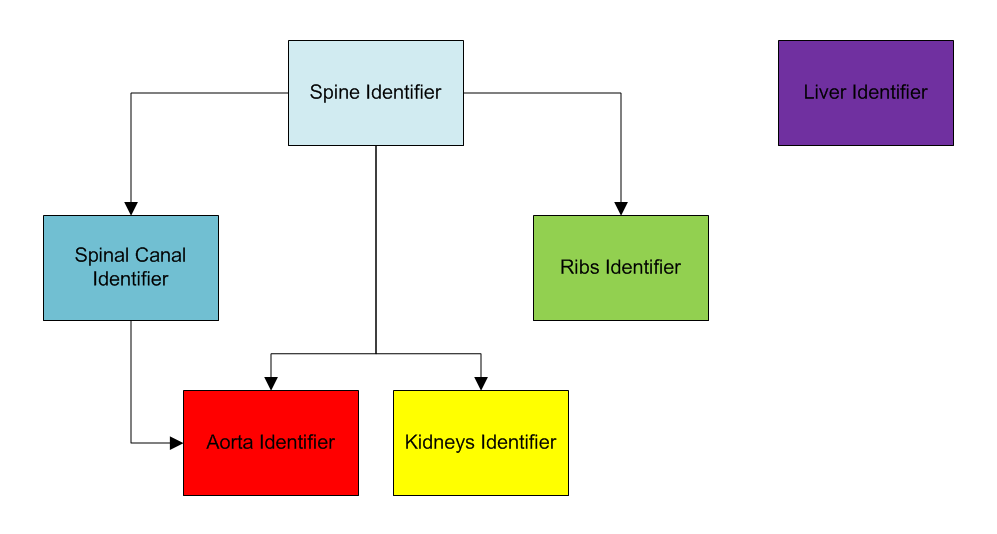
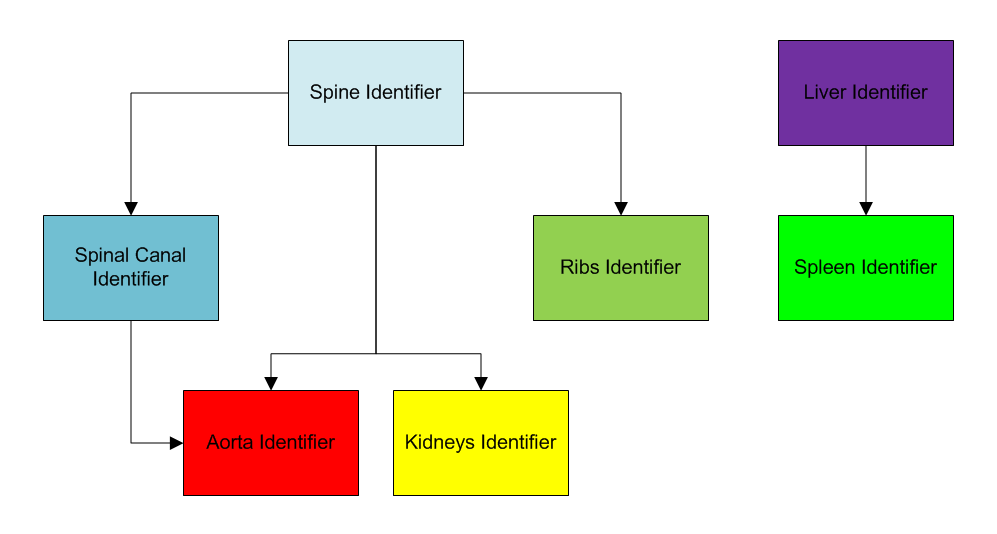
Made some diagrams illustrating spleen identification.
git-svn-id: svn://edison.comlab.ox.ac.uk/res07/stug/thesis@436 3591cd54-c1f5-49d0-bbe8-c111502d3865

Changed region(s): [[0.7773, 0.3596, 0.9639, 0.5993]]

diff --git a/validation/validation.tex b/validation/validation.tex
@@ -422,7 +422,7 @@ TODO (the left kidney is missed due to a tumour; the spleen is missed because th
 \section{Validation of Volume Calculations}
 %##################################################################################################
 
-The ideal way to validate my volume calculations would have been to correlate them with real-world volumes calculated independently by the medics, but unfortunately these were not available. However, I was able to obtain the \emph{masses} of patients' organs calculated post-mortem as part of a study into the feasibility of performing virtual autopsies \cite{?}. These provided a reasonable (if not perfect) substitute for the volumes, since the major soft-tissue organs have known, and roughly uniform, densities (this is why they appear homogeneous on CT scans, since the Hounsfield scale used for CT images measure radiodensity). In conjunction with Dr Zoe Traill, the radiologist, it was therefore decided to focus on four different features -- the left and right kidneys, liver and spleen. I thus drew round these features in $19$ series ($740$ slices in total), with the results being checked, and corrected where necessary, by Dr Traill. The calculated volumes (in $\mathit{cm}^3$) resulting from this manual feature identification process are shown in Table~\ref{tbl:validation-volcalc}, alongside the corresponding masses (in $g$) calculated during the autopsies.
+The ideal way to validate my volume calculations would have been to correlate them with real-world volumes calculated independently by the medics, but unfortunately these were not available. However, I was able to obtain the \emph{masses} of patients' organs calculated post-mortem as part of a study into the feasibility of performing virtual autopsies \cite{?}. These provided a reasonable (if not perfect) substitute for the volumes, since the major soft-tissue organs have known, and roughly uniform, densities (this is why they appear homogeneous on CT scans, since the Hounsfield scale used for CT images measures radiodensity). In conjunction with Dr Zoe Traill, the radiologist, it was therefore decided to focus on four different features -- the left and right kidneys, liver and spleen. I thus drew round these features in $19$ series ($740$ slices in total), with the results being checked, and corrected where necessary, by Dr Traill. The calculated volumes (in $\mathit{cm}^3$) resulting from this manual feature identification process are shown in Table~\ref{tbl:validation-volcalc}, alongside the corresponding masses (in $g$) calculated during the autopsies.
 
 When drawing round the features, I was careful to include any cysts on the kidneys, as Dr Traill asserted that these would have been included when weighing the organs during the autopsy. In one case -- for the right kidney of patient OX46 -- this significantly affected the result, due to a large ($80\mathit{mm}$ diameter) cyst being included in the volume calculation whilst not appearing to affect the mass in a similar way. It was hypothesised that this may have been due to the cyst bursting before the kidney was weighed. For that reason, the result in question was specifically excluded as an outlier.
 

diff --git a/introduction/introduction.tex b/introduction/introduction.tex
@@ -33,7 +33,7 @@ Aside from the aforementioned algorithms, attention needs to be paid to how part
 
 Many elements of the forest construction process are interesting in their own right. For instance, I initially implemented the waterfall transform using the approach described by Marcotegui and Beucher in \cite{marcotegui05}, but my colleague Chris Nicholls devised a simpler, functional-style tree-based algorithm which achieved almost identical results \cite{nicholls09}. In addition to implementing an imperative version of this new algorithm in C++, I subsequently also developed my own slightly more complicated waterfall algorithm that additionally accounts for non-minimal plateaux in the minimum spanning tree on which the algorithm is run in a consistent manner (unlike either of the existing algorithms). All three algorithms are described in detail and compared side-by-side in \S\ref{subsubsec:segmentation-waterfall-comparison}.
 
-With the forest constructed to represent the 3D image, it is possible to devise algorithms to automatically identify features within it. In particular, this thesis presents novel algorithms to identify the spine, spinal canal, ribs, aorta, liver and kidneys in Chapter~\ref{chap:featureid}. The results of all of these algorithms are validated in Chapter~\ref{chap:validation} against ground truth segmentations that have been manually delineated and confirmed as accurate by a radiologist. Whilst some of the identifiers need further refinement to increase their robustness, the overall approach shows promise.
+With the forest constructed to represent the 3D image, it is possible to devise algorithms to automatically identify features within it. In particular, this thesis presents novel algorithms to identify the spine, spinal canal, ribs, aorta, liver, kidneys and spleen in Chapter~\ref{chap:featureid}. The results of all of these algorithms are validated in Chapter~\ref{chap:validation} against ground truth segmentations that have been manually delineated and confirmed as accurate by a radiologist. Whilst some of the identifiers need further refinement to increase their robustness, the overall approach shows promise.
 
 I have implemented all of the described techniques and algorithms in C++. Specifically, two separate systems were developed to do segmentation, feature identification and 3D visualization. The trial system, \emph{centipede}, ran only on Microsoft Windows, and segmented each slice in a CT (or MRI) series into its own separate image partition forest. The user could mark features manually, or identify features such as the ribs and spine automatically in 2D CT images (see Figure~\ref{fig:introduction-centipede}). This work was published in \cite{gvccimi08} and \cite{gvcispa09}, with the former paper receiving the Professor Yasuhiko Dote award for the Best Workshop Paper at the Fifth International Conference on Soft Computing as Transdisciplinary Science and Technology (CSTST '08). It was also possible to visualize the results as a wireframe 3D mesh (generated using the multiple material marching cubes algorithm described in \cite{wu03}).
 

diff --git a/thesis.tex b/thesis.tex
@@ -17,7 +17,7 @@
 
 \doublespacing								% change the line spacing to double-spaced
 
-%\input{title}
+\input{title}
 
 \onehalfspacing								% change the line spacing to 1.5-spaced
 
@@ -25,17 +25,17 @@
 %%% Abstract and Acknowledgements %%%
 %%%%%%%%%%%%%%%%%%%%%%%%%%%%%%%%%%%%%
 
-%\input{abstract}
-%\input{acknowledgements}
+\input{abstract}
+\input{acknowledgements}
 
 %%%%%%%%%%%%%%%%%%%%%%%%%%%%%%
 %%% Table of Contents etc. %%%
 %%%%%%%%%%%%%%%%%%%%%%%%%%%%%%
 
-%\tableofcontents
-%\listoffigures
+\tableofcontents
+\listoffigures
 \listoftables
-%\listof{stulisting}{List of Code Listings}
+\listof{stulisting}{List of Code Listings}
 
 %%%%%%%%%%%%%%%%%%%%%
 %%% Main Document %%%
@@ -51,21 +51,21 @@
 \fancyhead{}
 \fancyhead[R]{\slshape \leftmark}
 
-%\input{introduction/introduction}
-%\input{background/background}
-%\input{methodology/methodology}
+\input{introduction/introduction}
+\input{background/background}
+\input{methodology/methodology}
 
 \part{Segmentation and Feature Identification}
 
-%\input{ipfs/ipfs}
-%\input{segmentation/segmentation}
-%\input{featureid/featureid}
+\input{ipfs/ipfs}
+\input{segmentation/segmentation}
+\input{featureid/featureid}
 
 \part{Assessment}
 
 \input{validation/validation}
-%\input{criticalassessment/criticalassessment}
-%\input{conclusions/conclusions}
+\input{criticalassessment/criticalassessment}
+\input{conclusions/conclusions}
 
 \appendix
 
@@ -74,12 +74,12 @@
 
 \part{Appendices}
 
-%\input{appendixds/appendixds}
-%\input{appendixpf/appendixpf}
-%\input{appendixapps/appendixapps}
-%\input{appendixval/appendixval}
-%\input{appendixeth/appendixeth}
-%\input{appendixlang/appendixlang}
+\input{appendixds/appendixds}
+\input{appendixpf/appendixpf}
+\input{appendixapps/appendixapps}
+\input{appendixval/appendixval}
+\input{appendixeth/appendixeth}
+\input{appendixlang/appendixlang}
 
 \printindex
 

diff --git a/featureid/featureid-final.tex b/featureid/featureid-final.tex
@@ -767,10 +767,13 @@ TODO (remember to mention that non-complete kidneys, e.g.~those with tumours on,
 \newpage
 
 %################################################
-\subsection{Results}
+\subsection{Spleen Identification}
 %################################################
 
-TODO: Limited results, as proper validation will be done in the following chapter
+TODO
+
+\afterpage{\clearpage}
+\newpage
 
 %##################################################################################################
 \section{Chapter Summary}
